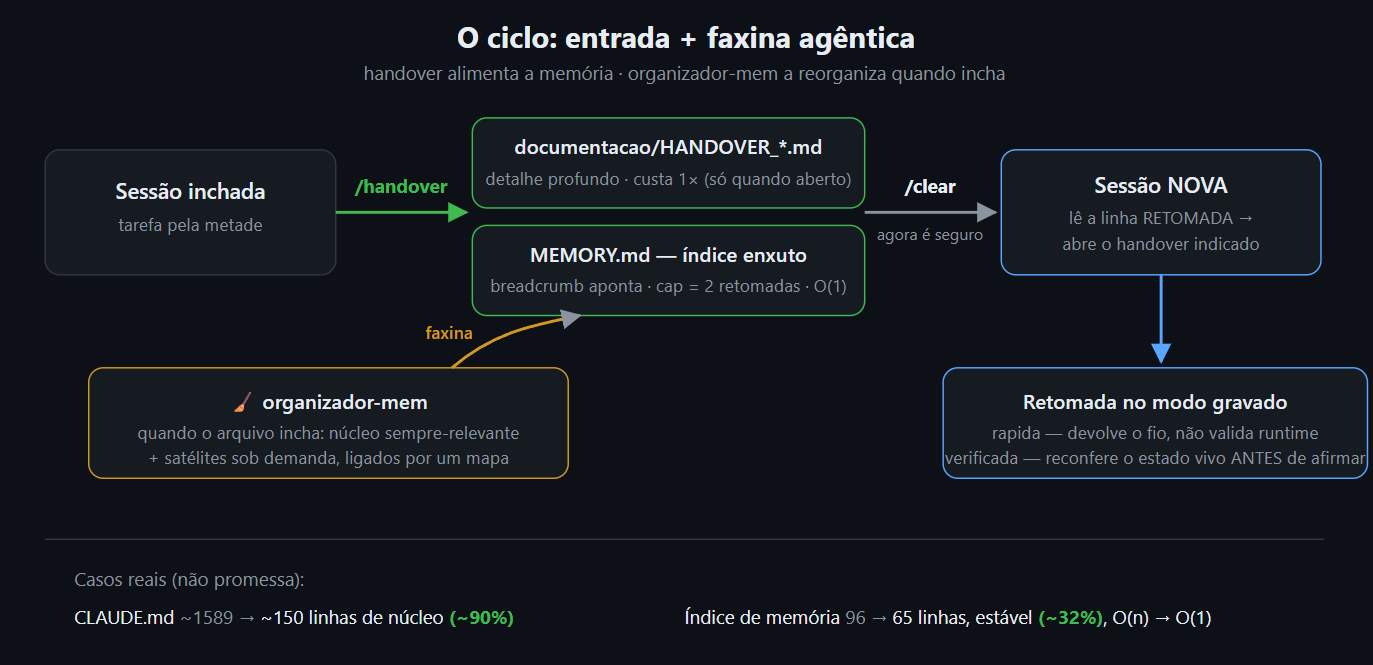
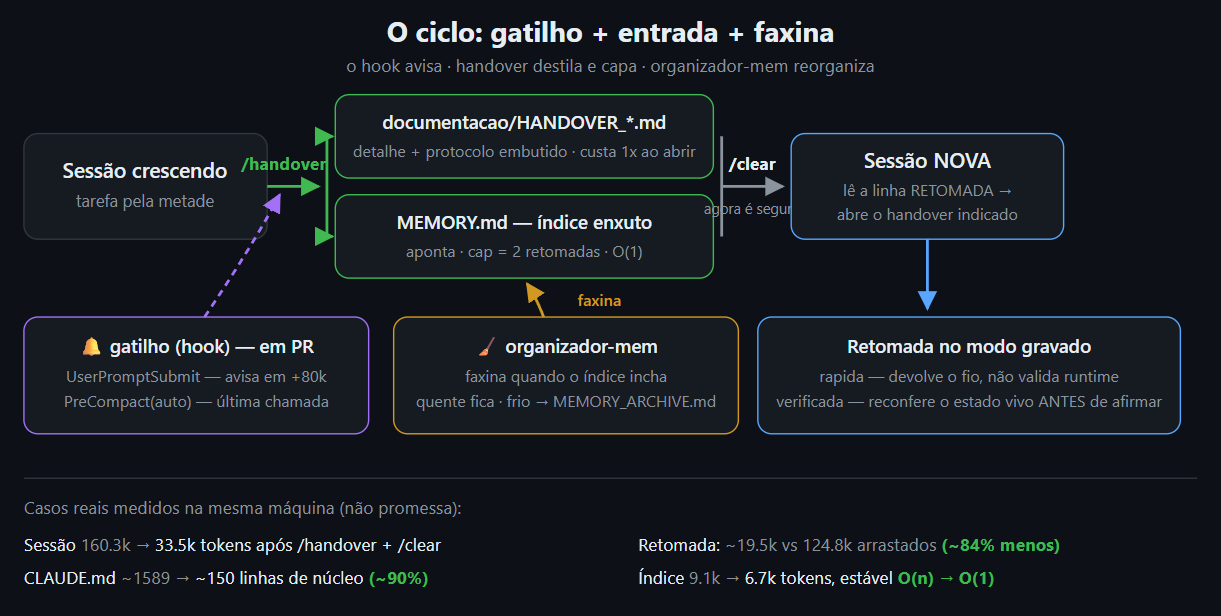
docs: novo header do ciclo (agora com o gatilho/hook) + alt text atualizado
Diagrama evoluido: 3 nos (gatilho + entrada + faxina), com UserPromptSubmit
(+80k) e PreCompact(auto) no no do gatilho, e os casos reais medidos
(160.3k->33.5k; retomada ~84% menos; indice O(n)->O(1)).

diff --git a/README.md b/README.md
@@ -12,7 +12,7 @@
 ![lang](https://img.shields.io/badge/docs-pt--BR-yellow)
 
 <p align="center">
-  <img src="assets/ciclo-token-economy.png" alt="O ciclo: entrada + faxina agêntica — handover alimenta a memória; organizador-mem a reorganiza quando incha. Sessão inchada --/handover--> HANDOVER_*.md + MEMORY.md --/clear--> Sessão NOVA --> Retomada no modo gravado. Casos reais: CLAUDE.md ~1589->~150 linhas (~90%); índice de memória 96->65 linhas (~32%, O(n)->O(1))." width="100%">
+  <img src="assets/ciclo-token-economy.png" alt="O ciclo: gatilho + entrada + faxina — o hook avisa, o handover destila e capa, o organizador-mem reorganiza. Sessão crescendo --/handover--> HANDOVER_*.md + MEMORY.md --/clear--> Sessão NOVA (lê a linha RETOMADA, abre o handover) --> Retomada no modo gravado (rapida ou verificada). Gatilho (hook): UserPromptSubmit avisa em +80k, PreCompact(auto) é a última chamada. Casos reais medidos na mesma máquina: sessão 160.3k->33.5k tokens após /handover+/clear; retomada ~19.5k vs 124.8k arrastados (~84% menos); CLAUDE.md ~1589->~150 linhas de núcleo (~90%); índice 9.1k->6.7k tokens, estável, O(n)->O(1)." width="100%">
 </p>
 
 ---